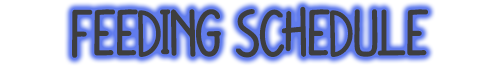
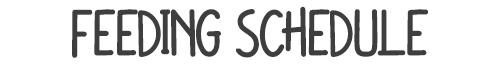
styled buttons and added delete/clear button also edit png file

diff --git a/public/index.html b/public/index.html
@@ -25,19 +25,29 @@
     <div class="block"></div>
     <br> -->
 
-    <section class="userbox">
+    <section class="userbox pets">
         <div class="tile is-parent">
-            <article class=" is-child notification is-primary">
+            <article class=" is-child notification is-primary m-2">
                 <p class="title">Username</p>
                 <p class="subtitle"></p>
                 <figure class="image is-4by3">
                     <img src="./images/mmAvatar.png">
                 </figure>
             </article>
-        </div>
 
-        <!--FOR FUTURE DEVELOPMENT (UPLOAD UR PIC)-->
-        <!-- <div class="file">
+            <div class="tile is-ancestor">
+                <div class="tile is-vertical is-8 m-2">
+                    <div class="tile">
+                        <div class="tile is-parent is-vertical">
+                            <article class="tile is-child notification is-primary">
+                                <p class="title">Pets</p>
+                                <p class="subtitle">Pet names here</p>
+                            </article>
+                        </div>
+                    </div>
+
+                    <!--FOR FUTURE DEVELOPMENT (UPLOAD UR PIC)-->
+                    <!-- <div class="file">
             <label class="file-label">
                 <input class="file-input" type="file" name="Username">
                 <span class="file-cta">
@@ -65,8 +75,8 @@
     <div class="box">
         <section class="breakfast">
             <button class="button is-primary is-rounded m-2">Wet Food</button>
-            <button class="button is-primary is-rounded m-2">Dry Food</button>
-            <button class="button is-primary is-rounded m-2">Both</button>
+            <button class="button is-success is-rounded m-2">Dry Food</button>
+            <button class="button is-info is-rounded m-2">Both</button>
             <button class="button buttontimestamp is-success is-rounded is-danger m-2">Confirm Feeding</button>
             <div class="block"></div>
             <div class="control">
@@ -81,8 +91,8 @@
     <div class="box">
         <section class="lunch">
             <button class="button is-primary is-rounded m-2">Wet Food</button>
-            <button class="button is-primary is-rounded m-2">Dry Food</button>
-            <button class="button is-primary is-rounded m-2">Both</button>
+            <button class="button is-success is-rounded m-2">Dry Food</button>
+            <button class="button is-info is-rounded m-2">Both</button>
             <button class="button buttontimestamp is-success is-rounded is-danger m-2">Confirm Feeding</button>
             <div class="block"></div>
             <div class="control">
@@ -98,8 +108,8 @@
     <div class="box">
         <section class="dinner">
             <button class="button is-primary is-rounded m-2">Wet Food</button>
-            <button class="button is-primary is-rounded m-2">Dry Food</button>
-            <button class="button is-primary is-rounded m-2">Both</button>
+            <button class="button is-success is-rounded m-2">Dry Food</button>
+            <button class="button is-info is-rounded m-2">Both</button>
             <button class="button buttontimestamp is-success is-rounded is-danger m-2">Confirm Feeding</button>
             <div class="block"></div>
             <div class="control">
@@ -108,6 +118,13 @@
         </section>
     </div>
 
+    <div class="block"></div>
+    <button class="button is-horizontal-center is-danger is-outlined m-6">
+        <span><strong>CLEAR FORM / RESET</strong></span>
+        <span class="icon is-small">
+            <i class="fas fa-times"></i>
+        </span>
+    </button>
 
 </body>
 
